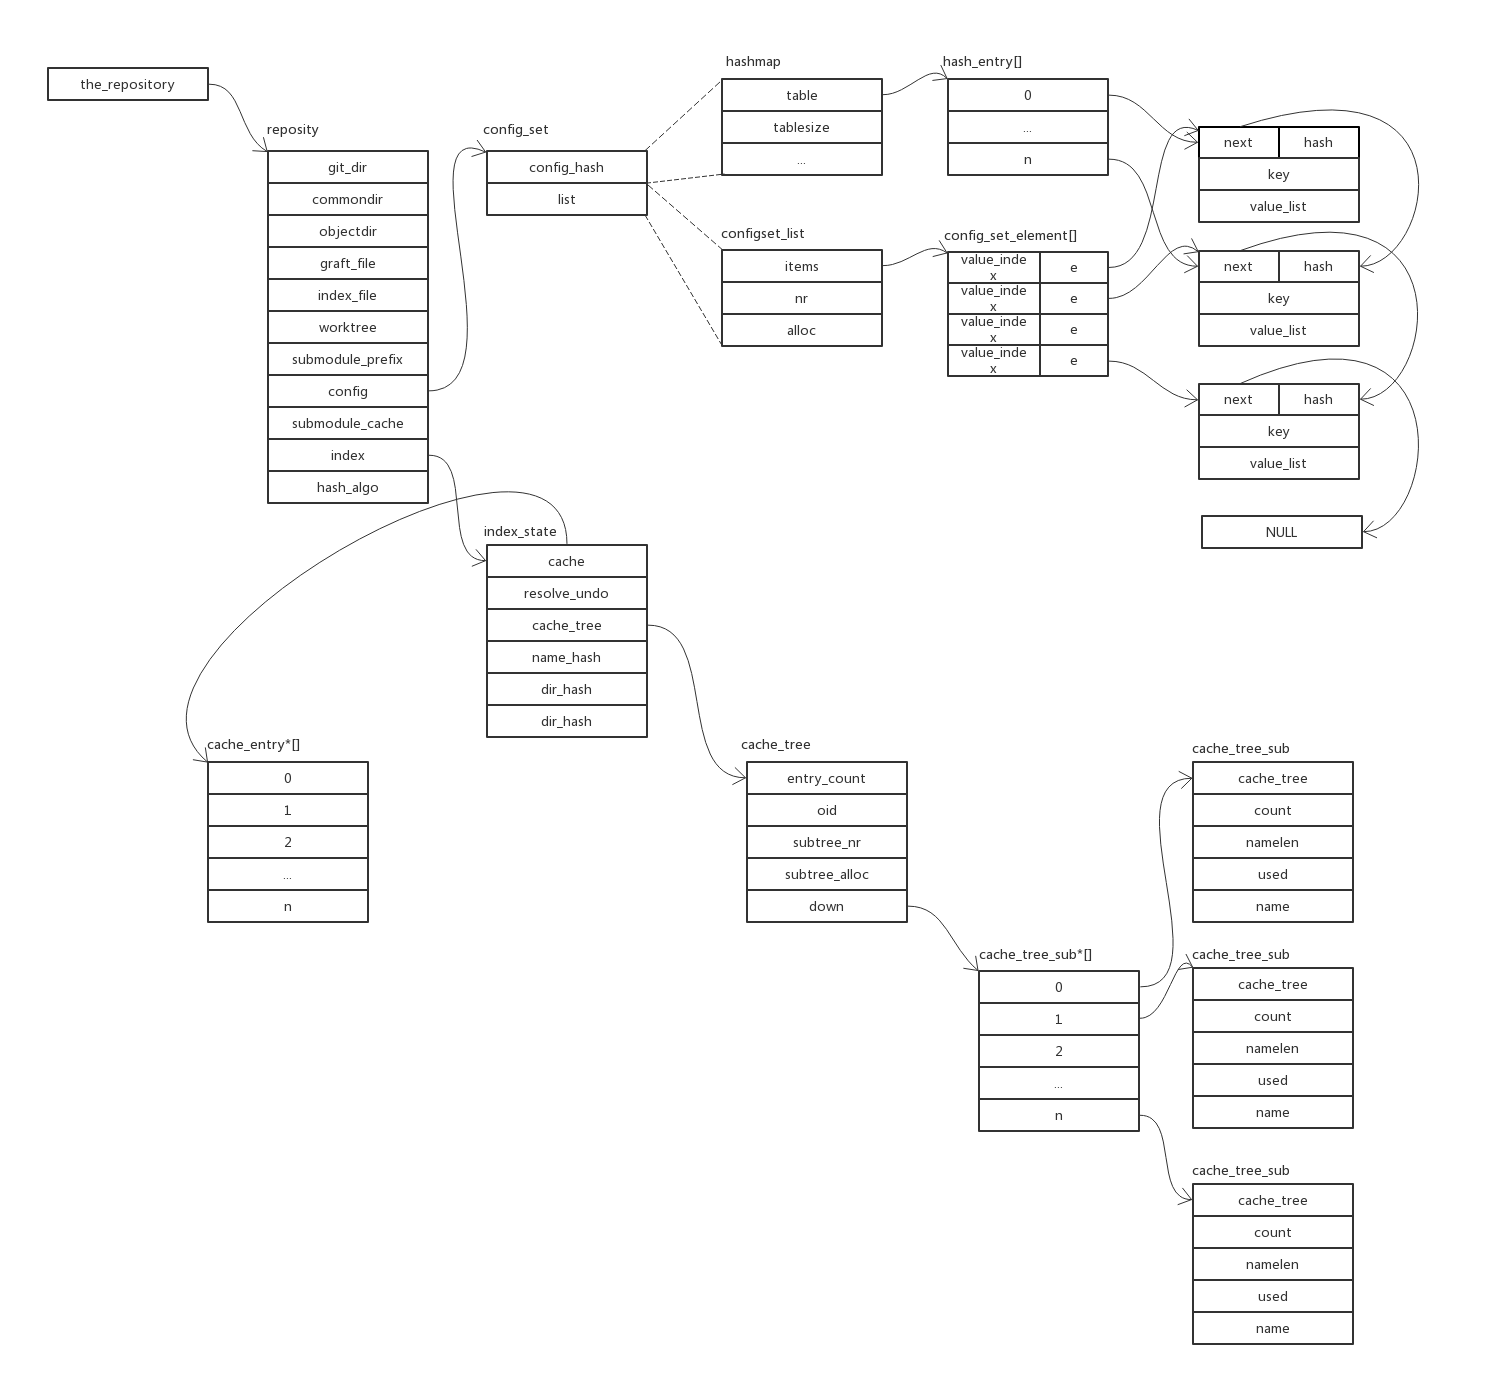
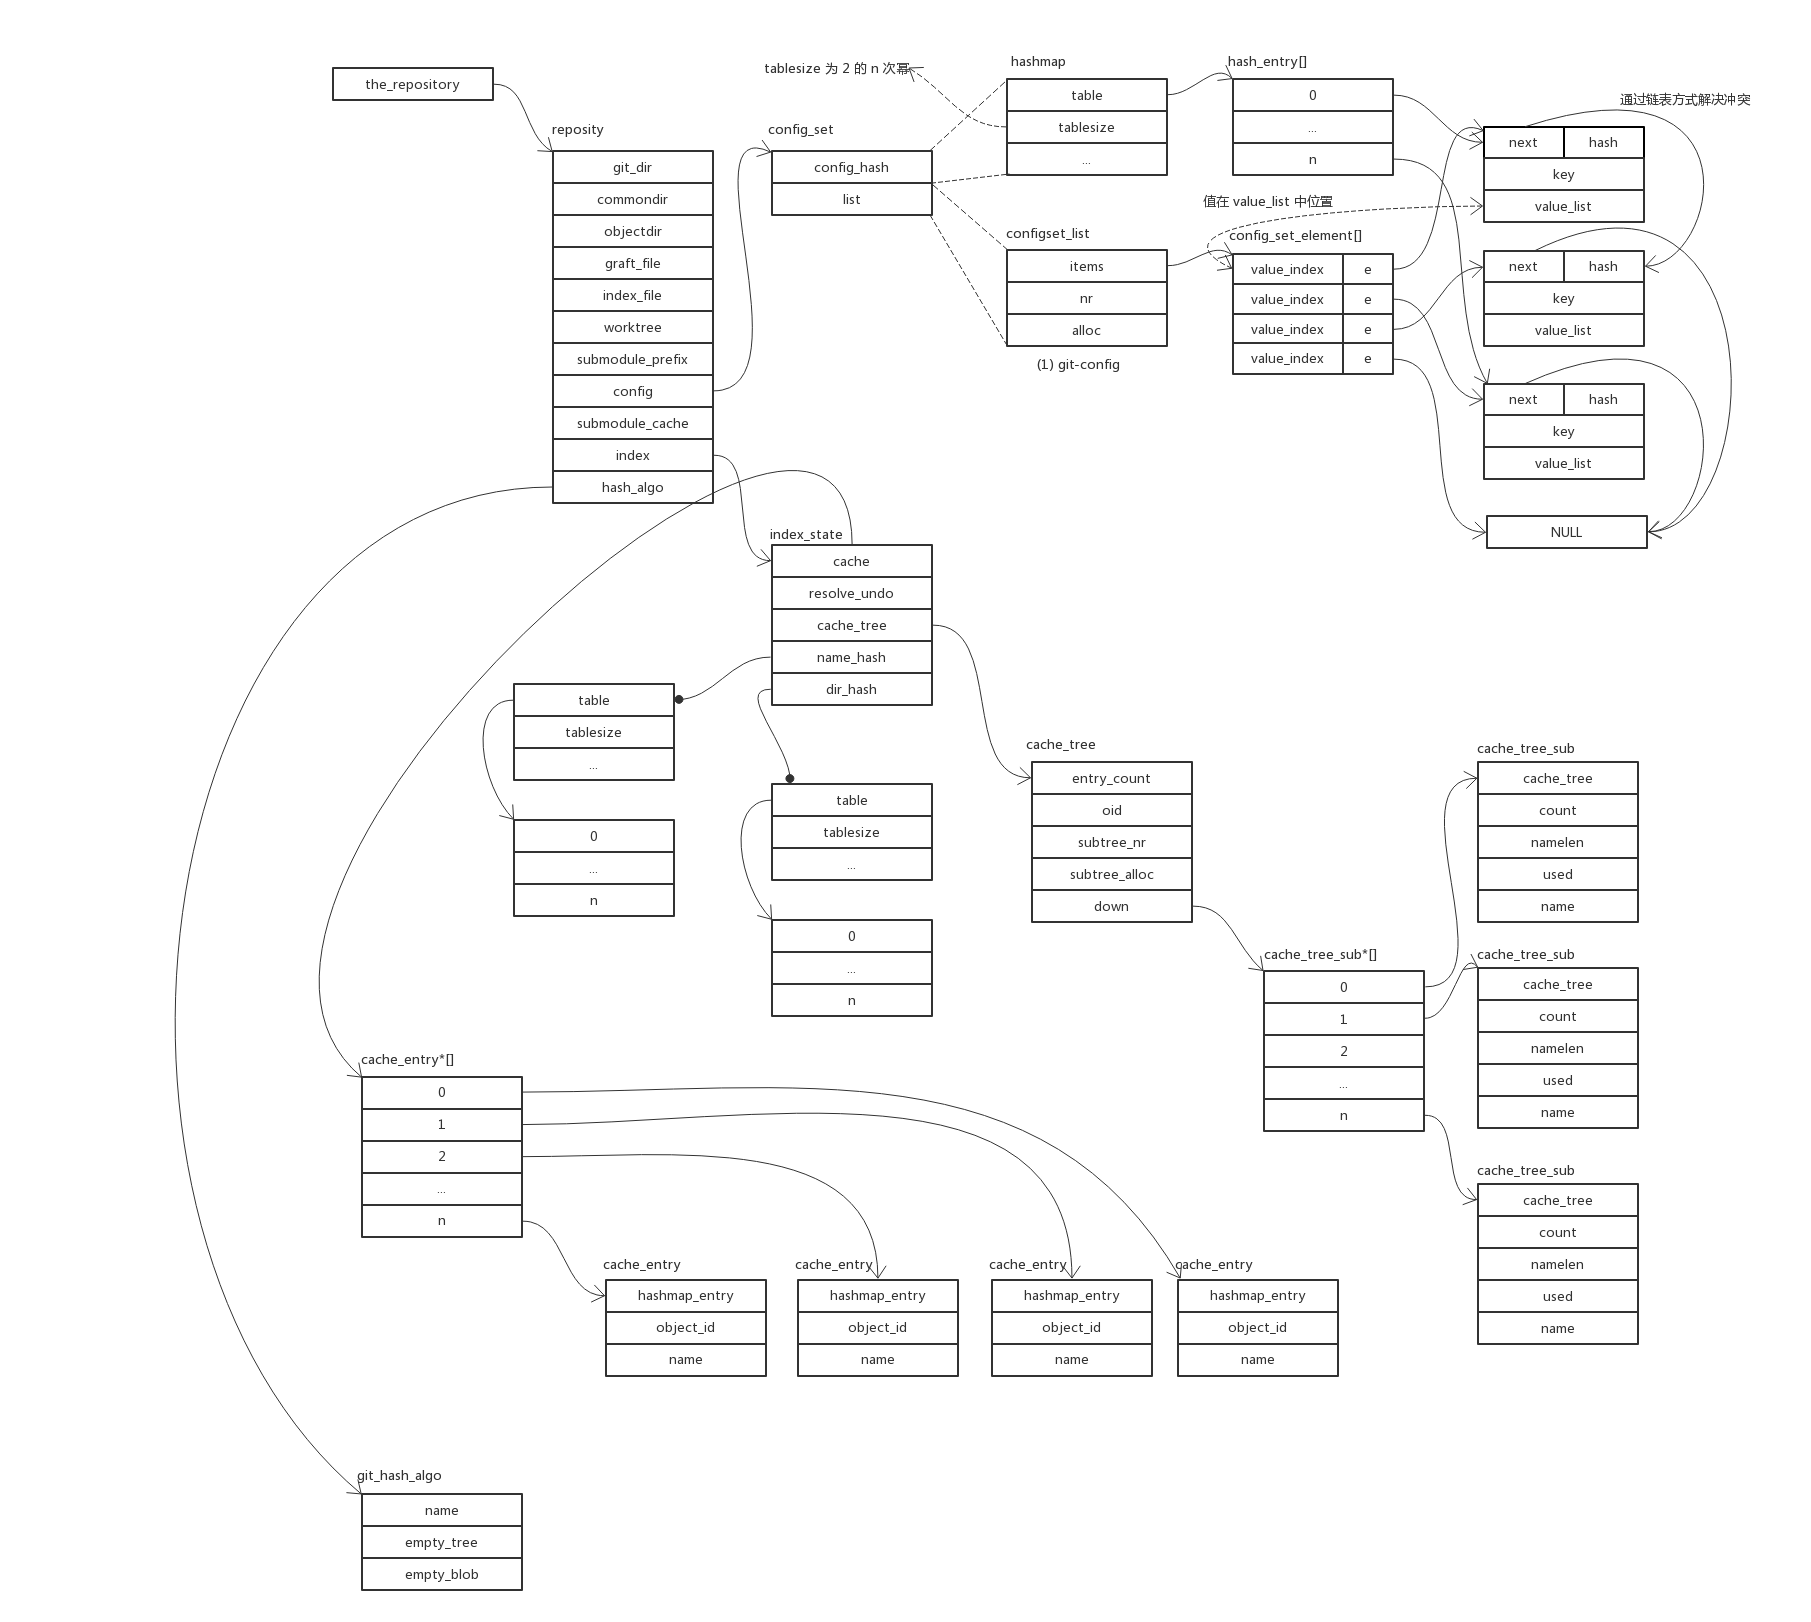
git init doc

diff --git a/git/init.md b/git/init.md
@@ -30,6 +30,86 @@ cmd_init_db 基本流程如下图：
 
 ![Reposity Data Structure](./images/reposity.png)
 
+下面的内容，我们将分析关键的代码及方法。
+
+### 配置
+
+- git-config
+
+通过遍历 configset_list 中每一个元素，使用 fn 判定配置选项是否满足条件，并进行设置。data 为 fn 额外参数。
+
+```C
+void git_config(config_fn_t fn, void *data)
+```
+
+核心方法为
+
+```C
+static void configset_iter(struct config_set *cs, config_fn_t fn, void *data)
+{
+	int i, value_index;
+	struct string_list *values;
+	struct config_set_element *entry;
+	struct configset_list *list = &cs->list;
+
+	// 遍历 configset_list
+	for (i = 0; i < list->nr; i++) {
+		// 获取 entry
+		entry = list->items[i].e;
+
+		// 获取 values
+		value_index = list->items[i].value_index;
+		values = &entry->value_list;
+
+		current_config_kvi = values->items[value_index].util;
+
+		// 使用 fn 对比 key，和需要的 value；
+		// value 通过 value_index 获取
+		if (fn(entry->key, values->items[value_index].string, data) < 0)
+			git_die_config_linenr(entry->key,
+					      current_config_kvi->filename,
+					      current_config_kvi->linenr);
+
+		current_config_kvi = NULL;
+	}
+}
+```
+
+- repo_read_config
+
+在 git_config_check_init 中调用，初始化当前 reposity 配置。
+
+```C
+static void repo_read_config(struct repository *repo)
+{
+	struct config_options opts;
+
+	opts.respect_includes = 1;
+	opts.commondir = repo->commondir;
+	opts.git_dir = repo->gitdir;
+
+	// 库的 config 暂无分配内存
+	if (!repo->config)
+		repo->config = xcalloc(1, sizeof(struct config_set));
+	else
+		// 清除配置
+		git_configset_clear(repo->config);
+
+	// 初始化 configset
+	git_configset_init(repo->config);
+
+	// 从预定义的配置文件中获取 reposity 配置
+	if (config_with_options(config_set_callback, repo->config, NULL, &opts) < 0)
+		die(_("unknown error occurred while reading the configuration files"));
+}
+```
+
+## 创建库
+
+流程图如下
+
+![Init DB Flow](./images/init_db_flow.png)
+
 ## References
 
 - [Git Config](https://git-scm.com/docs/git-config)
